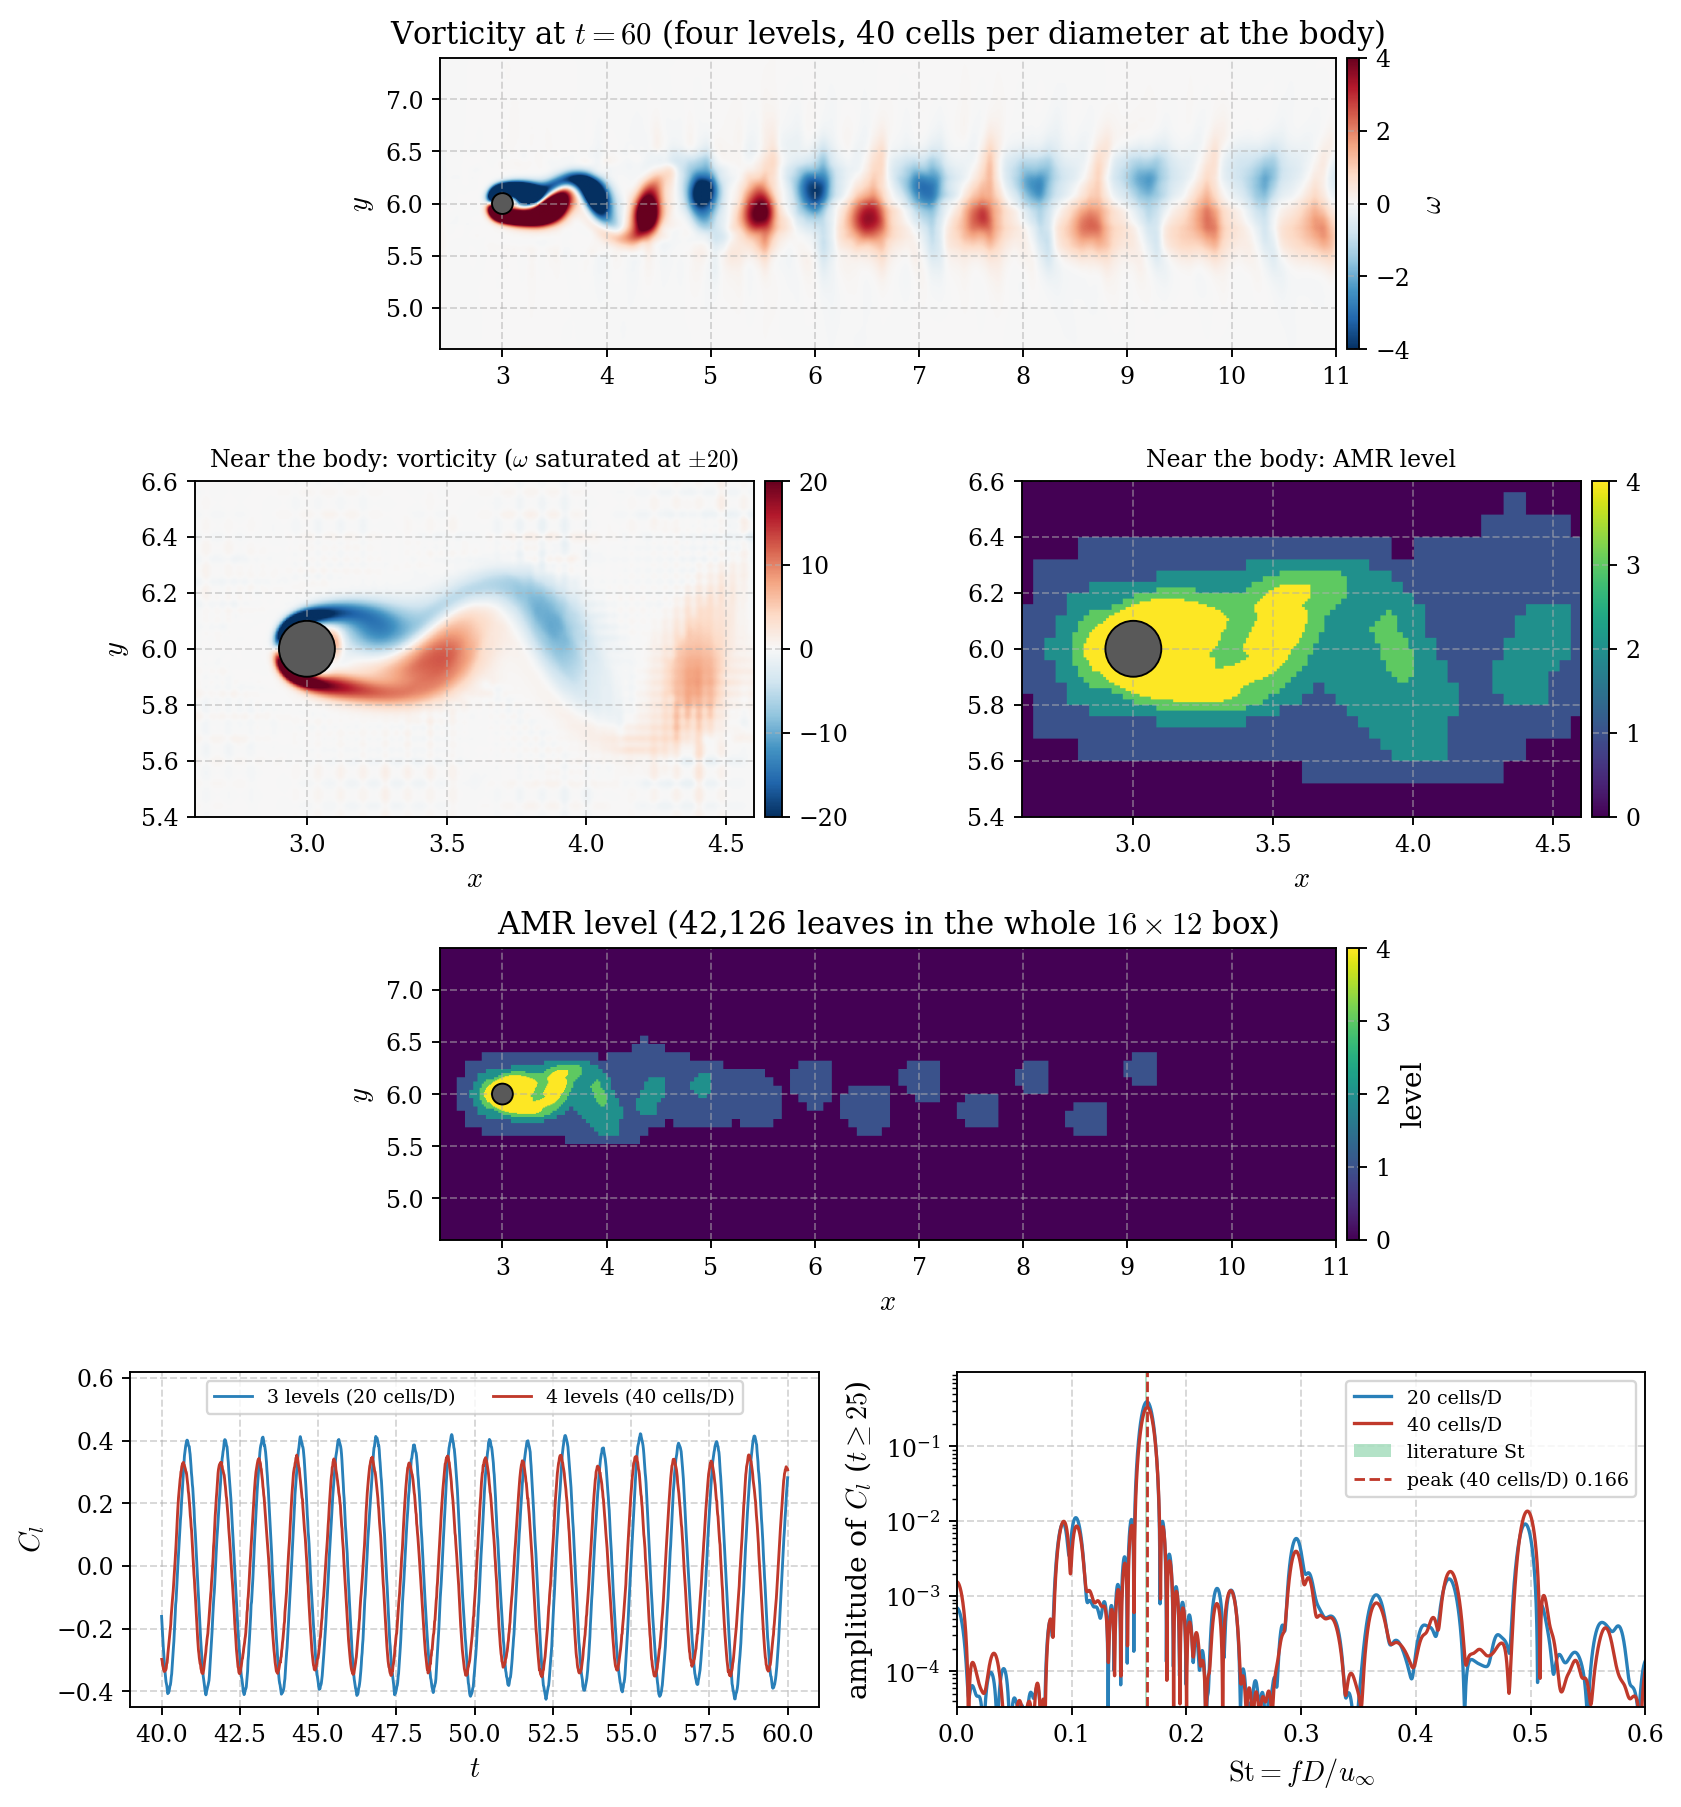
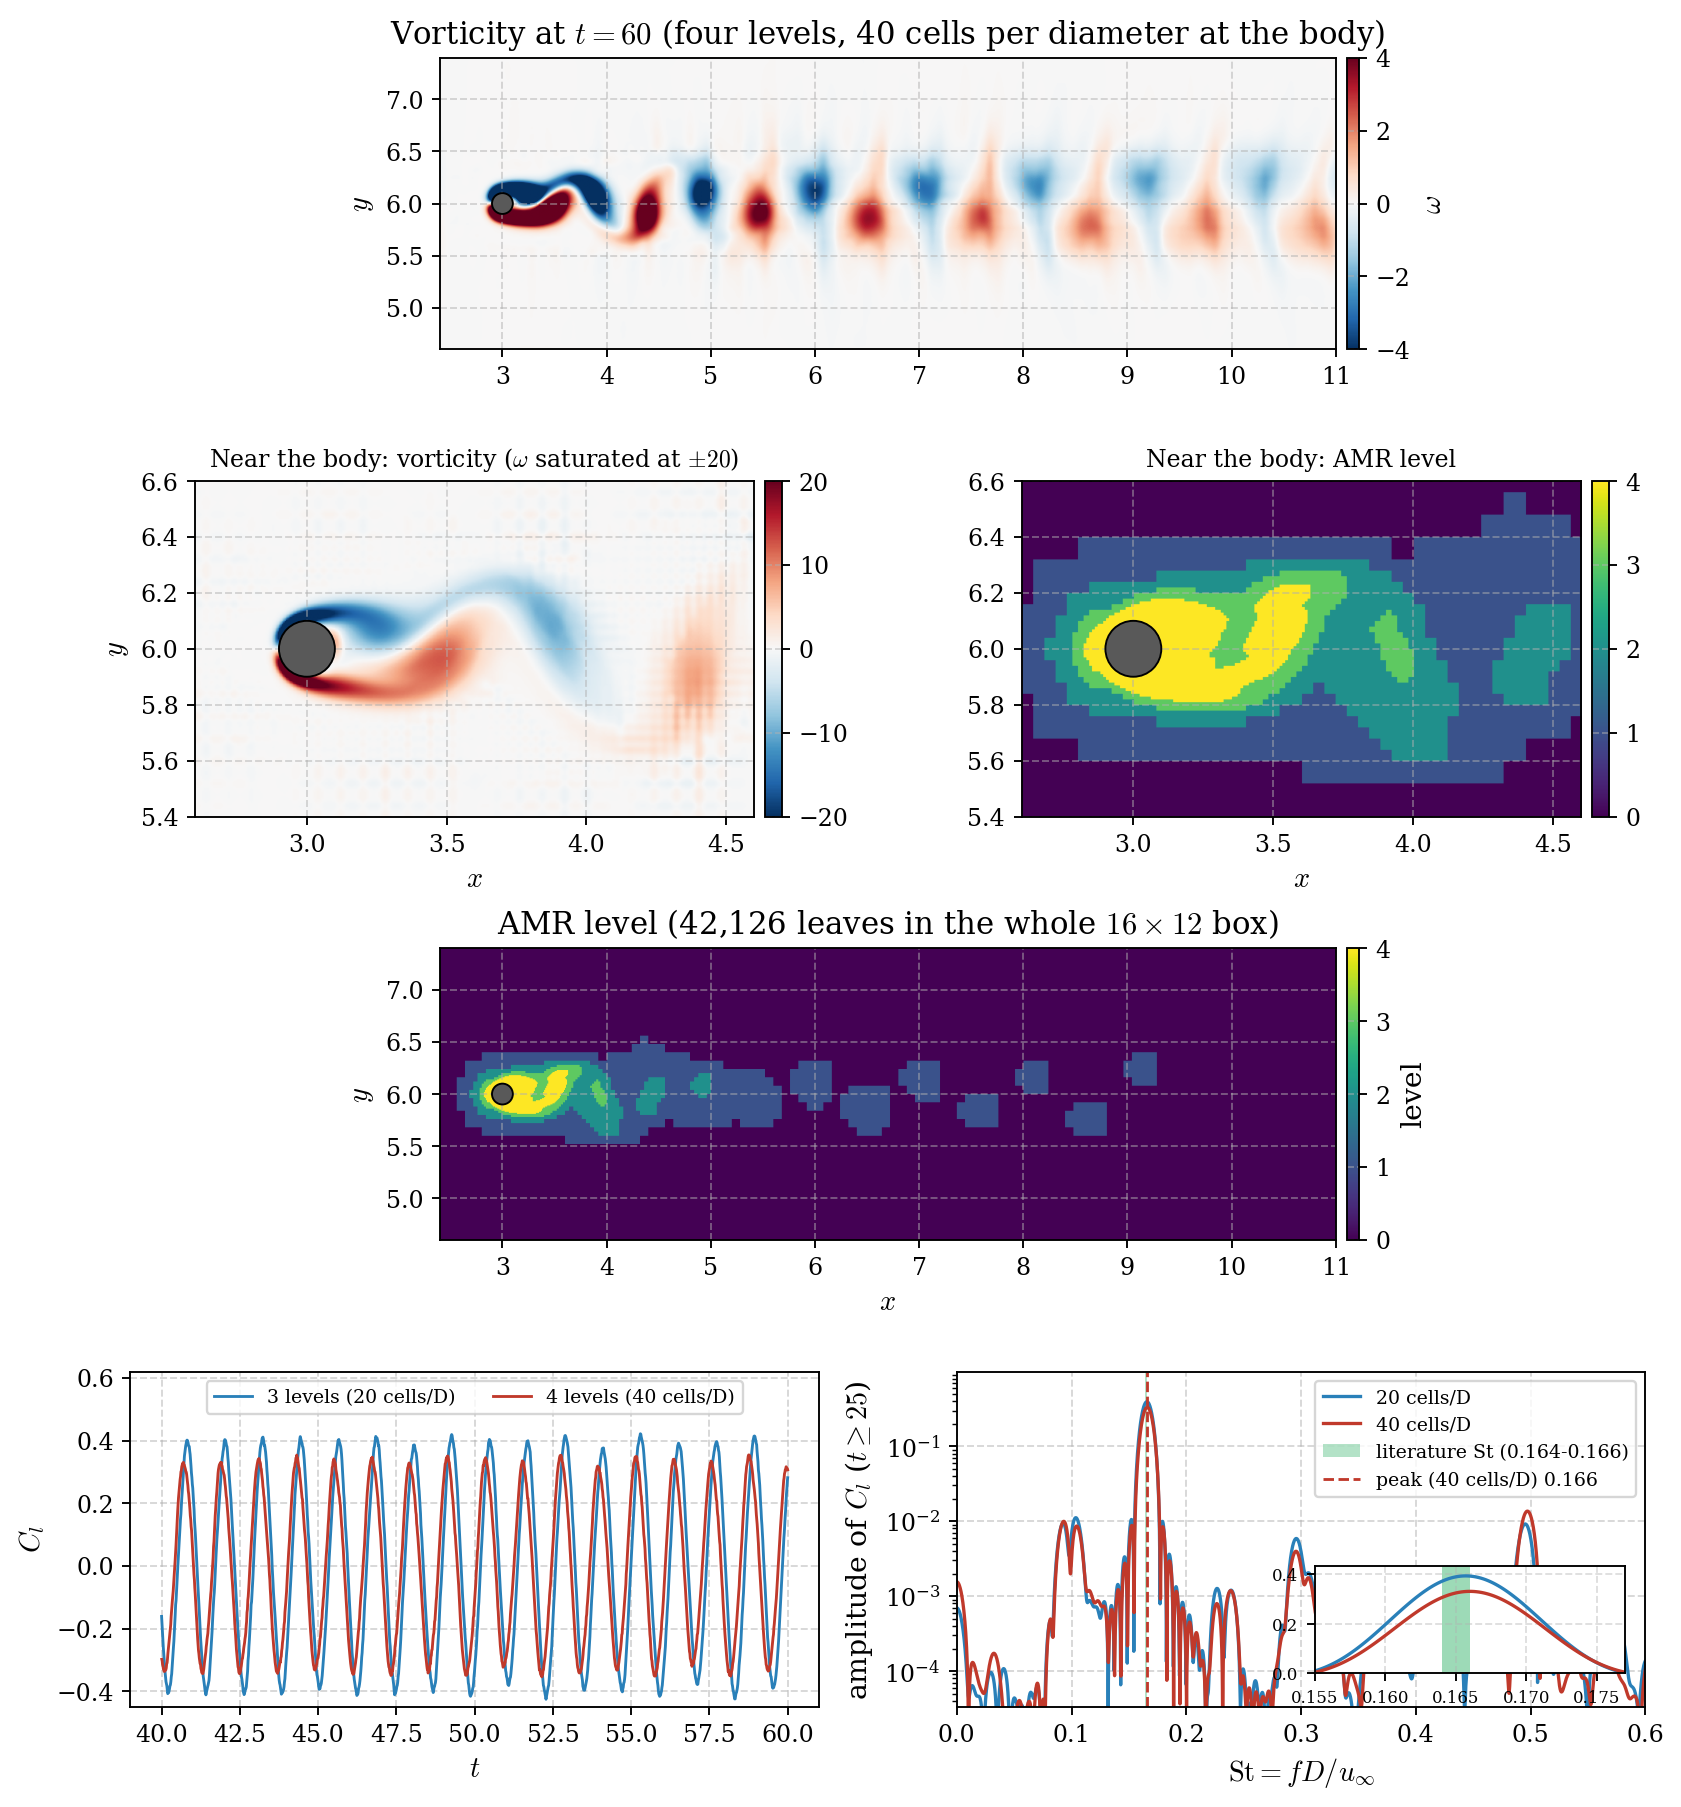
Low-blockage cylinder figure: zoom on the St peak so the literature band (0.002 wide) is visible [skip ci]

Changed region(s): [[0.7733, 0.8677, 0.9899, 0.9297], [0.7733, 0.7748, 0.959, 0.8367]]

diff --git a/cases/validation/benchmarks/cylinder_low_blockage.py b/cases/validation/benchmarks/cylinder_low_blockage.py
@@ -139,8 +139,18 @@ def main():
     a3 = fig.add_subplot(gs[3, 1])
     a3.semilogy(res["l3"][0], res["l3"][1], color="#2980b9", lw=1.4, label="20 cells/D")
     a3.semilogy(st_f, a_f, color="#c0392b", lw=1.4, label="40 cells/D")
-    a3.axvspan(*REF, color="#27ae60", alpha=0.35, lw=0, label="literature St")
+    a3.axvspan(*REF, color="#27ae60", alpha=0.35, lw=0, label="literature St (0.164-0.166)")
     a3.axvline(st_spec, color="#c0392b", ls="--", lw=1.2, label=f"peak (40 cells/D) {st_spec:.3f}")
+    # the literature band (0.002 wide) is invisible on the full axis: a zoom on the peak shows it
+    ins = a3.inset_axes([0.52, 0.10, 0.45, 0.32])
+    for name, color in (("l3", "#2980b9"), ("l4", "#c0392b")):
+        ins.plot(res[name][0], res[name][1], color=color, lw=1.4)
+    ins.axvspan(*REF, color="#27ae60", alpha=0.45, lw=0)
+    ins.set_xlim(0.155, 0.177)
+    ins.set_ylim(0, max(res["l3"][1].max(), a_f.max()) * 1.1)
+    ins.set_facecolor("white")
+    ins.tick_params(labelsize=7)
+    ins.grid(True, ls="--", alpha=0.4)
     a3.set_xlim(0, 0.6)
     a3.set_ylim(a_f.max() * 1e-4, a_f.max() * 3)
     a3.set_xlabel(r"$\mathrm{St}=fD/u_\infty$")
